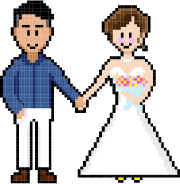
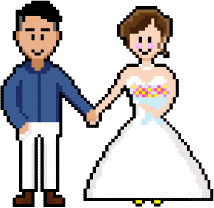
1. Update start button and bride image 2. Add time based bonus score

Changed region(s): [[0.0, 0.0, 1.0, 1.0], [0.0556, 0.3804, 0.1111, 0.5435]]

diff --git a/src/app/game-board/game-board.component.ts b/src/app/game-board/game-board.component.ts
@@ -352,16 +352,22 @@ export class GameBoardComponent implements OnInit, OnDestroy {
 
   regEndGame(): void {
     this.endGameSignal$.pipe(takeUntil(this.onDestroy$)).subscribe((finalScore) => {
+      const finishTime = moment();
+      const duration = moment.duration(finishTime.diff(this.startTime));
+      sessionStorage.setItem('duration', Math.floor(duration.asSeconds()).toString());
+
       this.score = finalScore;
+
+      // Add time bonus score
+      const timeBonus = Math.floor(100 * (120 / Math.floor(duration.asSeconds())));
+      this.score += timeBonus;
+
       localStorage.setItem('gameAnswer', JSON.stringify(this.SurveyAnswers));
       // Update highest score
       const lastScore = localStorage.getItem('maxScore') || 0;
       if (this.score > +lastScore) {
         localStorage.setItem('maxScore', this.score.toString());
       }
-      const finishTime = moment();
-      const duration = moment.duration(finishTime.diff(this.startTime));
-      sessionStorage.setItem('duration', Math.floor(duration.asSeconds()).toString());
       this.router.navigateByUrl('survey');
       this.music?.pause();
     });

diff --git a/src/app/survey/survey.component.html b/src/app/survey/survey.component.html
@@ -23,7 +23,7 @@
           <!-- Entrance time -->
           <div class="row --entrance">
             <label for="entrance" class="ctrl-title">賓客進場時間：</label>
-            <label id="entrance" class="ctrl">10:30 ~ 11:30</label>
+            <label id="entrance" class="ctrl">11:30 ~ 12:00</label>
           </div><!-- End of entrance time -->
 
           <!-- Location -->
